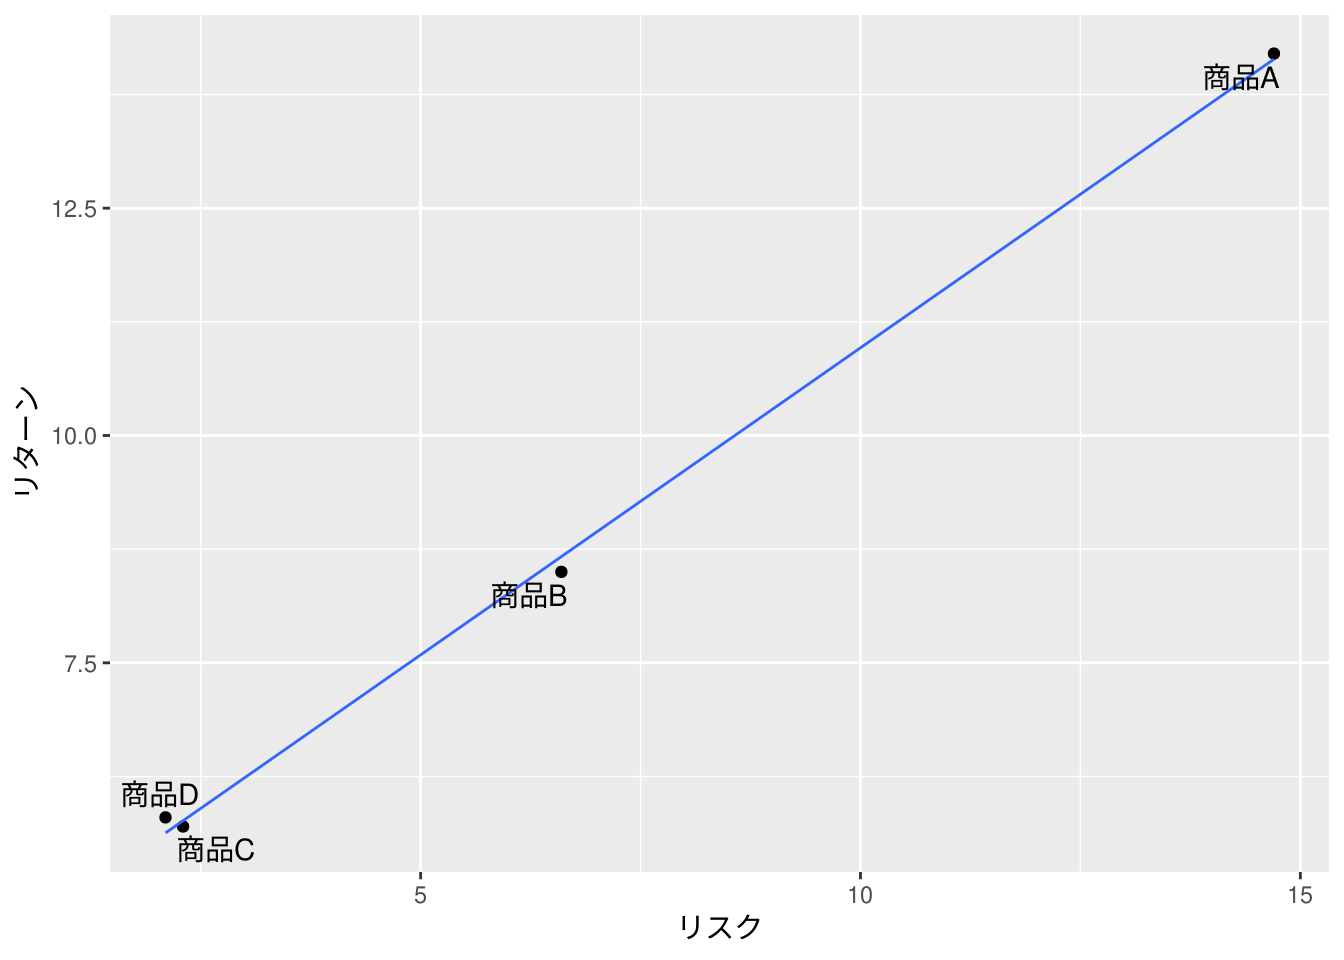
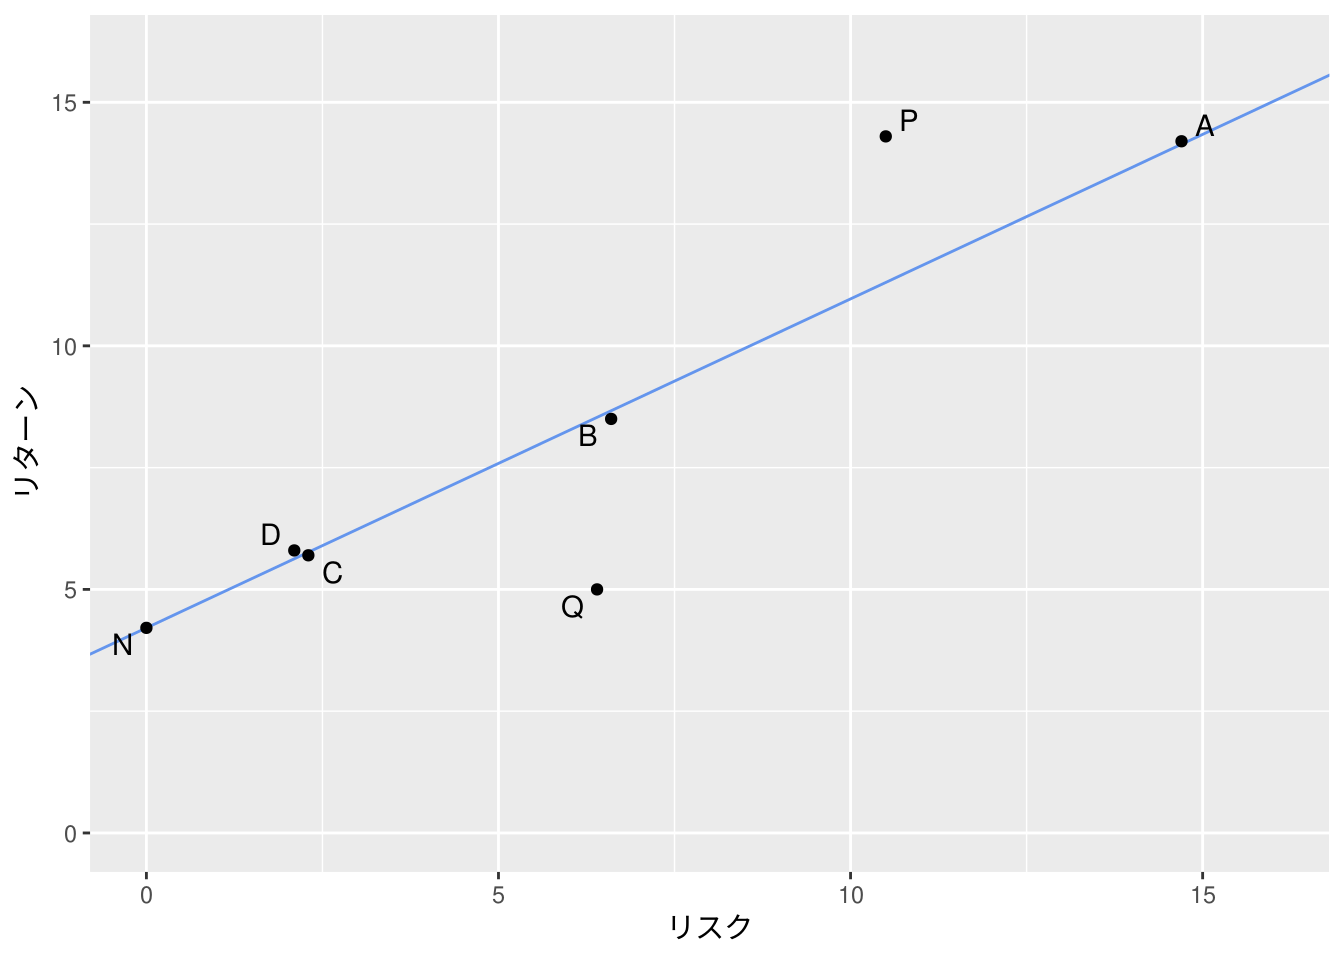
WIP

diff --git a/docs/chapter06.html b/docs/chapter06.html
@@ -300,7 +300,8 @@ code span.wa { color: #60a0b0; font-weight: bold; font-style: italic; } /* Warni
   <span class="fu">ggplot2</span><span class="fu">::</span><span class="fu"><a href="https://ggplot2.tidyverse.org/reference/ggplot.html">ggplot</a></span><span class="op">(</span><span class="fu">ggplot2</span><span class="fu">::</span><span class="fu"><a href="https://ggplot2.tidyverse.org/reference/aes.html">aes</a></span><span class="op">(</span>x <span class="op">=</span> <span class="va">リスク</span>, y <span class="op">=</span> <span class="va">リターン</span>, label <span class="op">=</span> <span class="va">商品</span><span class="op">)</span><span class="op">)</span> <span class="op">+</span>
     <span class="fu">ggplot2</span><span class="fu">::</span><span class="fu"><a href="https://ggplot2.tidyverse.org/reference/geom_point.html">geom_point</a></span><span class="op">(</span><span class="op">)</span> <span class="op">+</span>
     <span class="fu">ggplot2</span><span class="fu">::</span><span class="fu"><a href="https://ggplot2.tidyverse.org/reference/geom_smooth.html">geom_smooth</a></span><span class="op">(</span>se <span class="op">=</span> <span class="cn">FALSE</span>, method <span class="op">=</span> <span class="st">"lm"</span>, size <span class="op">=</span> <span class="fl">0.5</span><span class="op">)</span> <span class="op">+</span>
-    <span class="fu">ggrepel</span><span class="fu">::</span><span class="fu"><a href="https://rdrr.io/pkg/ggrepel/man/geom_text_repel.html">geom_text_repel</a></span><span class="op">(</span><span class="op">)</span></code><button title="Copy to Clipboard" class="code-copy-button"><i class="bi"></i></button></pre></div>
+    <span class="fu">ggrepel</span><span class="fu">::</span><span class="fu"><a href="https://rdrr.io/pkg/ggrepel/man/geom_text_repel.html">geom_text_repel</a></span><span class="op">(</span><span class="op">)</span> <span class="op">+</span> 
+    <span class="fu">ggplot2</span><span class="fu">::</span><span class="fu"><a href="https://ggplot2.tidyverse.org/reference/lims.html">lims</a></span><span class="op">(</span>x <span class="op">=</span> <span class="fu"><a href="https://rdrr.io/r/base/c.html">c</a></span><span class="op">(</span><span class="fl">0</span>, <span class="fl">16</span><span class="op">)</span>, y <span class="op">=</span> <span class="fu"><a href="https://rdrr.io/r/base/c.html">c</a></span><span class="op">(</span><span class="fl">0</span>, <span class="fl">16</span><span class="op">)</span><span class="op">)</span></code><button title="Copy to Clipboard" class="code-copy-button"><i class="bi"></i></button></pre></div>
 </details><div class="cell-output-display">
 <p><img src="chapter06_files/figure-html/unnamed-chunk-4-1.png" class="img-fluid" width="672"></p>
 </div>
@@ -308,13 +309,14 @@ code span.wa { color: #60a0b0; font-weight: bold; font-style: italic; } /* Warni
 <p>　</p>
 </section><section id="金融商品の優劣の測り方" class="level2" data-number="6.2"><h2 data-number="6.2" class="anchored" data-anchor-id="金融商品の優劣の測り方">
 <span class="header-section-number">6.2</span> 金融商品の優劣の測り方</h2>
-<p>　先程の商品A〜商品Dのうち、どの商品が最も優れているでしょうか？実は、この四商品で比較する限り優劣はありません。</p>
+<p>　前述の商品A〜商品Dの四商品を比較する限り、優劣はありません。では、下図の商品N, P, Qは四商品（A〜D）と比べてどれが優れているのでしょうか？</p>
 <div class="cell">
 <div class="cell-output-display">
 <p><img src="chapter06_files/figure-html/unnamed-chunk-5-1.png" class="img-fluid" width="672"></p>
 </div>
 </div>
-<p>　</p>
+<p>　<br>
+　</p>
 <p>　</p>
 </section><section id="金融商品の優劣を測る数値シャープレシオ" class="level2" data-number="6.3"><h2 data-number="6.3" class="anchored" data-anchor-id="金融商品の優劣を測る数値シャープレシオ">
 <span class="header-section-number">6.3</span> 金融商品の優劣を測る数値・シャープレシオ</h2>
@@ -329,15 +331,15 @@ code span.wa { color: #60a0b0; font-weight: bold; font-style: italic; } /* Warni
 
 <div data-pagedtable="false">
   <script data-pagedtable-source="" type="application/json">
-{"columns":[{"label":["基準日"],"name":[1],"type":["chr"],"align":["left"]},{"label":["1年"],"name":[2],"type":["dbl"],"align":["right"]},{"label":["2年"],"name":[3],"type":["dbl"],"align":["right"]},{"label":["3年"],"name":[4],"type":["dbl"],"align":["right"]},{"label":["4年"],"name":[5],"type":["dbl"],"align":["right"]},{"label":["5年"],"name":[6],"type":["dbl"],"align":["right"]},{"label":["6年"],"name":[7],"type":["dbl"],"align":["right"]},{"label":["7年"],"name":[8],"type":["dbl"],"align":["right"]},{"label":["8年"],"name":[9],"type":["dbl"],"align":["right"]},{"label":["9年"],"name":[10],"type":["dbl"],"align":["right"]},{"label":["10年"],"name":[11],"type":["dbl"],"align":["right"]},{"label":["15年"],"name":[12],"type":["dbl"],"align":["right"]},{"label":["20年"],"name":[13],"type":["dbl"],"align":["right"]},{"label":["25年"],"name":[14],"type":["dbl"],"align":["right"]},{"label":["30年"],"name":[15],"type":["dbl"],"align":["right"]},{"label":["40年"],"name":[16],"type":["dbl"],"align":["right"]}],"data":[{"1":"R4.6.1","2":"-0.085","3":"-0.075","4":"-0.059","5":"-0.033","6":"-0.001","7":"0.052","8":"0.114","9":"0.168","10":"0.208","11":"0.242","12":"0.526","13":"0.766","14":"0.918","15":"1.034","16":"1.110"},{"1":"R4.6.2","2":"-0.085","3":"-0.070","4":"-0.055","5":"-0.031","6":"0.006","7":"0.058","8":"0.122","9":"0.178","10":"0.217","11":"0.251","12":"0.535","13":"0.779","14":"0.931","15":"1.038","16":"1.122"},{"1":"R4.6.3","2":"-0.086","3":"-0.070","4":"-0.059","5":"-0.036","6":"-0.001","7":"0.048","8":"0.106","9":"0.163","10":"0.206","11":"0.241","12":"0.521","13":"0.756","14":"0.916","15":"1.025","16":"1.101"},{"1":"R4.6.6","2":"-0.086","3":"-0.065","4":"-0.055","5":"-0.030","6":"0.006","7":"0.058","8":"0.123","9":"0.179","10":"0.218","11":"0.252","12":"0.531","13":"0.766","14":"0.926","15":"1.029","16":"1.106"},{"1":"R4.6.7","2":"-0.087","3":"-0.070","4":"-0.055","5":"-0.030","6":"0.009","7":"0.068","8":"0.143","9":"0.199","10":"0.229","11":"0.257","12":"0.541","13":"0.781","14":"0.944","15":"1.052","16":"1.123"},{"1":"R4.6.8","2":"-0.087","3":"-0.070","4":"-0.059","5":"-0.035","6":"0.003","7":"0.063","8":"0.138","9":"0.199","10":"0.229","11":"0.257","12":"0.541","13":"0.775","14":"0.940","15":"1.055","16":"1.127"},{"1":"R4.6.9","2":"-0.087","3":"-0.075","4":"-0.065","5":"-0.040","6":"0.003","7":"0.058","8":"0.128","9":"0.199","10":"0.233","11":"0.255","12":"0.544","13":"0.785","14":"0.953","15":"1.074","16":"1.144"}],"options":{"columns":{"min":{},"max":[10]},"rows":{"min":[10],"max":[10]},"pages":{}}}
+{"columns":[{"label":["基準日"],"name":[1],"type":["chr"],"align":["left"]},{"label":["1年"],"name":[2],"type":["dbl"],"align":["right"]},{"label":["2年"],"name":[3],"type":["dbl"],"align":["right"]},{"label":["3年"],"name":[4],"type":["dbl"],"align":["right"]},{"label":["4年"],"name":[5],"type":["dbl"],"align":["right"]},{"label":["5年"],"name":[6],"type":["dbl"],"align":["right"]},{"label":["6年"],"name":[7],"type":["dbl"],"align":["right"]},{"label":["7年"],"name":[8],"type":["dbl"],"align":["right"]},{"label":["8年"],"name":[9],"type":["dbl"],"align":["right"]},{"label":["9年"],"name":[10],"type":["dbl"],"align":["right"]},{"label":["10年"],"name":[11],"type":["dbl"],"align":["right"]},{"label":["15年"],"name":[12],"type":["dbl"],"align":["right"]},{"label":["20年"],"name":[13],"type":["dbl"],"align":["right"]},{"label":["25年"],"name":[14],"type":["dbl"],"align":["right"]},{"label":["30年"],"name":[15],"type":["dbl"],"align":["right"]},{"label":["40年"],"name":[16],"type":["dbl"],"align":["right"]}],"data":[{"1":"R4.6.1","2":"-0.085","3":"-0.075","4":"-0.059","5":"-0.033","6":"-0.001","7":"0.052","8":"0.114","9":"0.168","10":"0.208","11":"0.242","12":"0.526","13":"0.766","14":"0.918","15":"1.034","16":"1.110"},{"1":"R4.6.2","2":"-0.085","3":"-0.070","4":"-0.055","5":"-0.031","6":"0.006","7":"0.058","8":"0.122","9":"0.178","10":"0.217","11":"0.251","12":"0.535","13":"0.779","14":"0.931","15":"1.038","16":"1.122"},{"1":"R4.6.3","2":"-0.086","3":"-0.070","4":"-0.059","5":"-0.036","6":"-0.001","7":"0.048","8":"0.106","9":"0.163","10":"0.206","11":"0.241","12":"0.521","13":"0.756","14":"0.916","15":"1.025","16":"1.101"},{"1":"R4.6.6","2":"-0.086","3":"-0.065","4":"-0.055","5":"-0.030","6":"0.006","7":"0.058","8":"0.123","9":"0.179","10":"0.218","11":"0.252","12":"0.531","13":"0.766","14":"0.926","15":"1.029","16":"1.106"},{"1":"R4.6.7","2":"-0.087","3":"-0.070","4":"-0.055","5":"-0.030","6":"0.009","7":"0.068","8":"0.143","9":"0.199","10":"0.229","11":"0.257","12":"0.541","13":"0.781","14":"0.944","15":"1.052","16":"1.123"},{"1":"R4.6.8","2":"-0.087","3":"-0.070","4":"-0.059","5":"-0.035","6":"0.003","7":"0.063","8":"0.138","9":"0.199","10":"0.229","11":"0.257","12":"0.541","13":"0.775","14":"0.940","15":"1.055","16":"1.127"},{"1":"R4.6.9","2":"-0.087","3":"-0.075","4":"-0.065","5":"-0.040","6":"0.003","7":"0.058","8":"0.128","9":"0.199","10":"0.233","11":"0.255","12":"0.544","13":"0.785","14":"0.953","15":"1.074","16":"1.144"},{"1":"R4.6.10","2":"-0.088","3":"-0.081","4":"-0.069","5":"-0.041","6":"0.007","7":"0.073","8":"0.138","9":"0.213","10":"0.245","11":"0.261","12":"0.560","13":"0.798","14":"0.962","15":"1.079","16":"1.153"}],"options":{"columns":{"min":{},"max":[10]},"rows":{"min":[10],"max":[10]},"pages":{}}}
   </script>
 </div>
 </div>
 </div>
 <p>　国債の利回りは5年経って約<span class="math inline">\(0\%\)</span>なので、無リスク資産の利回りを<span class="math inline">\(0\%\)</span>（利回りはほぼ得られない）と考えるとシャープレシオは下式のようになります。</p>
 <p><span class="math display">\[\mbox{シャープレシオ} = \frac{\mbox{リターンの平均値}}{\mbox{リスク（リターンの標準偏差）}}\]</span></p>
-<p>　リターンの平均値は、リスクとシャープレシオが分かれば下式で求められます。</p>
-<p><span class="math display">\[\mbox{リターンの平均値} = \mbox{シャープレシオ} \times \mbox{リスク（リターンの標準偏差）} + \mbox{無リスク資産の利回り}\]</span></p>
+<p>　リターンの平均値は、リスク（リターンの標準偏差）とシャープレシオが分かれば下式で求められます。</p>
+<p><span class="math display">\[\mbox{リターンの平均値} = \mbox{リスク} \times \mbox{シャープレシオ} + \mbox{無リスク資産の利回り}\]</span></p>
 <p>　</p>
 </section><section id="練習問題" class="level2 unnumbered"><h2 class="unnumbered anchored" data-anchor-id="練習問題">練習問題</h2>
 <p>　（省略）</p>
@@ -400,7 +402,7 @@ code span.wa { color: #60a0b0; font-weight: bold; font-style: italic; } /* Warni
 </div>
 </div>
 </div>
-<p>　 　この中から「追加型/内外/株式」のリスクの平均値・リターン遷移をグラフにします。どのファンドも短期間ではリターンの平均値が非常に悪いことが分かります。</p>
+<p>　この中から「追加型/内外/株式」のリスクの平均値・リターン遷移をグラフにします。どのファンドも短期間ではリターンの平均値が非常に悪いことが分かります。</p>
 <div class="cell">
 <details><summary>追加型/内外/株式タイプのリスク・リターン遷移</summary><div class="sourceCode" id="cb7"><pre class="downlit sourceCode r code-with-copy"><code class="sourceCode R"><span class="st">"./data/つみたてNISA_運用情報_2022-06-12.csv"</span> <span class="op">%&gt;%</span>
   <span class="fu">readr</span><span class="fu">::</span><span class="fu"><a href="https://readr.tidyverse.org/reference/read_delim.html">read_csv</a></span><span class="op">(</span><span class="op">)</span> <span class="op">%&gt;%</span>

diff --git a/docs/index.html b/docs/index.html
@@ -5,7 +5,7 @@
 <meta name="generator" content="quarto-0.9.440">
 <meta name="viewport" content="width=device-width, initial-scale=1.0, user-scalable=yes">
 <meta name="author" content="Sampo Suzuki, CC 4.0 BY-NC-SA">
-<meta name="dcterms.date" content="2022-06-12">
+<meta name="dcterms.date" content="2022-06-13">
 <meta name="description" content="本書はデータ分析勉強会で学んだ成果をまとめたものです。">
 <title>Rで学ぶ『完全独習 統計学入門』</title>
 <style>
@@ -77,7 +77,7 @@ ul.task-list{list-style: none;}
       <div>
       <div class="quarto-title-meta-heading">Published</div>
       <div class="quarto-title-meta-contents">
-        <p class="date">June 12, 2022</p>
+        <p class="date">June 13, 2022</p>
       </div>
     </div>
       
